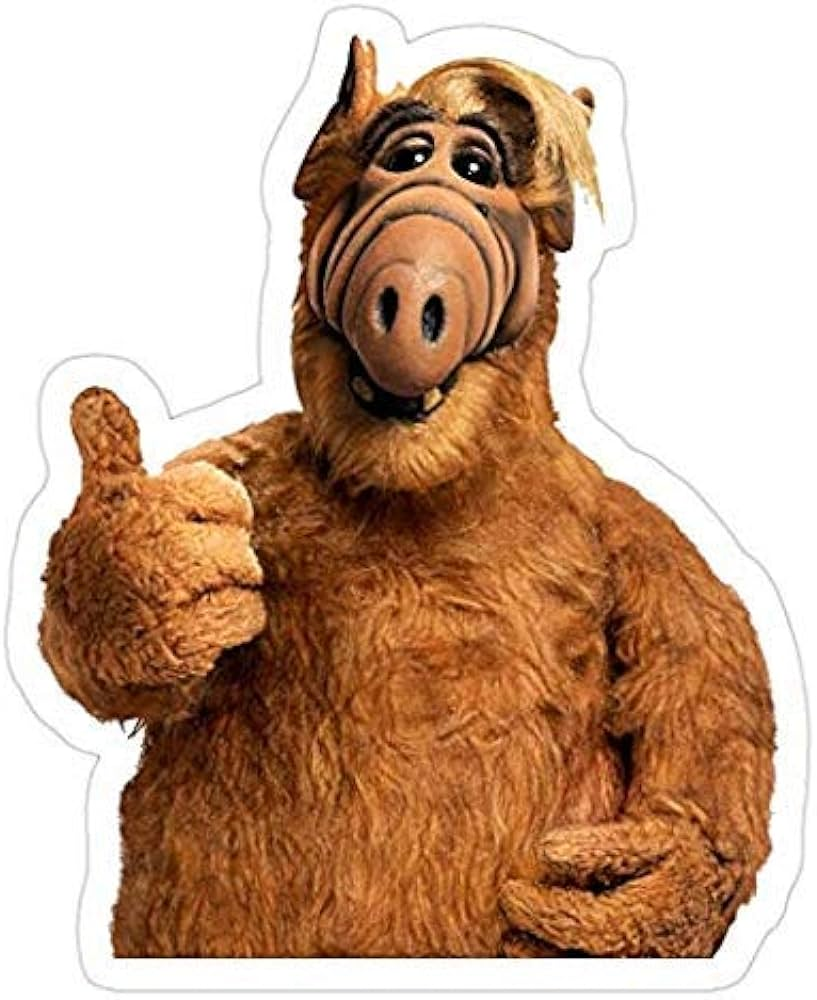
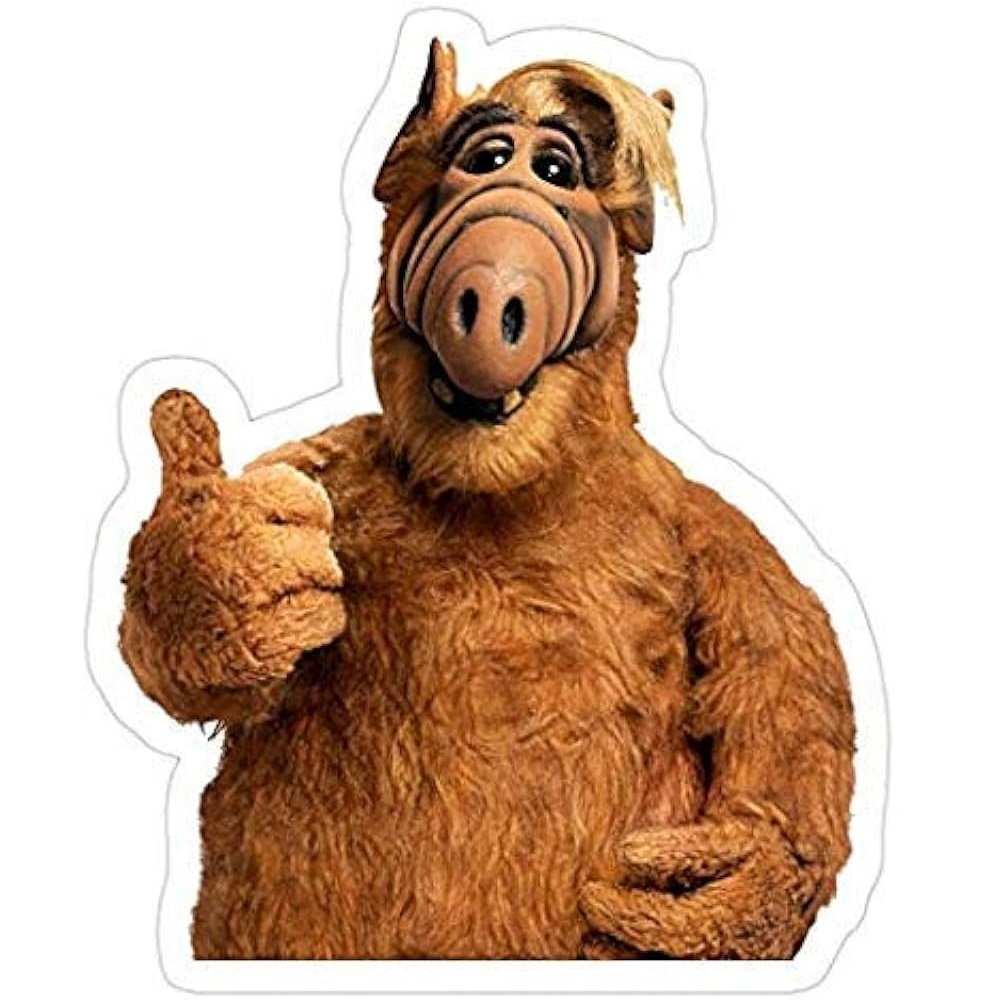
up

diff --git a/style.css b/style.css
@@ -13,7 +13,7 @@ body {
   align-items: center;
   justify-content: center;
   min-height: 100vh;
-  background-color: brown;
+  background-color: antiquewhite;
   padding: 0 35px;
 }
 
@@ -21,8 +21,21 @@ body {
   width: 100%;
 
   display: flex;
+  flex-flow: column;
   align-items: center;
   justify-content: center;
+}
+
+.superior {
+  width: 60%;
+  display: flex;
+  flex-flow: row;
+  justify-content: space-between;
+  align-items: center;
+  padding: 1em;
+}
+
+.superior .botones {
 }
 
 .wrapper .carousel {
@@ -35,18 +48,16 @@ body {
 }
 
 .carousel .item {
-  height: 200px;
   border-radius: 8px;
 
   display: flex;
-  align-items: center;
+  align-items: left;
   justify-content: center;
   flex-direction: column;
-  background-color: antiquewhite;
 }
 
 .item .img img {
-  width: 140px;
-  height: 140px;
+  width: 100%;
+  height: 100%;
   object-fit: cover;
 }

diff --git a/index.html b/index.html
@@ -8,6 +8,13 @@
   </head>
   <body>
     <div class="wrapper">
+      <div class="superior">
+        <h1 class="h1">Figuras</h1>
+        <div class="botones">
+          <button class="arrow"><</button>
+          <button class="arrow">></button>
+        </div>
+      </div>
       <ul class="carousel">
         <li class="item">
           <div class="img"><img src="imgs/alf.jpg" alt="img" /></div>
